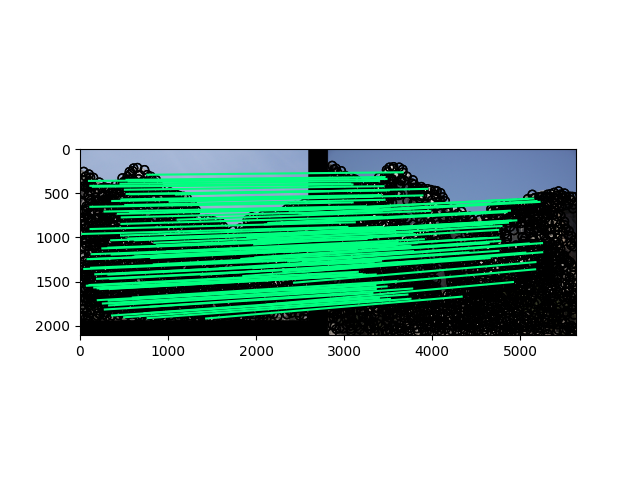
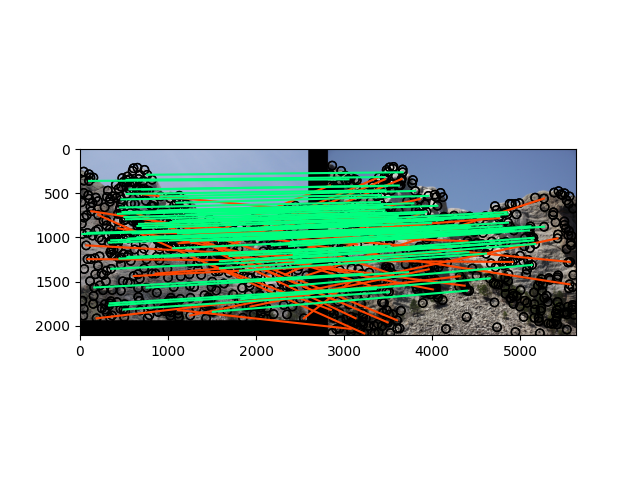
change descriptor type

Changed region(s): [[0.125, 0.3438, 0.9062, 0.7188]]

diff --git a/project2-localimagefeatures-cancan233/code/student.py b/project2-localimagefeatures-cancan233/code/student.py
@@ -81,7 +81,7 @@ def get_interest_points(image, feature_width):
     alpha = 0.04
     R = Ixx * Iyy - Ixy ** 2 - alpha * (Ixx + Iyy) ** 2
     R = R / np.linalg.norm(R)
-    threshold = np.percentile(R, [15.0])
+    threshold = np.percentile(R, [60.0])
     np.putmask(R, R < threshold, 0)
     interested_points = feature.peak_local_max(
         R,
@@ -92,15 +92,14 @@ def get_interest_points(image, feature_width):
     )
 
     # interested_points = anms(interested_points, R)
-    # print(interested_points.shape)
     if rescale:
         interested_points = interested_points / 2
     return interested_points[:, 1], interested_points[:, 0]
 
 
-def anms(points, harris_response, top=500):
+def anms(points, R, top=500):
     l, x, y = [], 0, 0
-    threshold = np.mean(harris_response)
+    threshold = np.mean(R)
     while x < len(points):
         minpoint = float("inf")
         xi, yi = points[x][0], points[x][1]
@@ -109,10 +108,9 @@ def anms(points, harris_response, top=500):
             if (
                 xi != xj
                 and yi != yj
-                and harris_response[points[x][0], points[x][1]] > threshold
-                and harris_response[points[y][0], points[y][1]] > threshold
-                and harris_response[points[x][0], points[x][1]]
-                < harris_response[points[y][0], points[y][1]] * 0.9
+                and R[points[x][0], points[x][1]] > threshold
+                and R[points[y][0], points[y][1]] > threshold
+                and R[points[x][0], points[x][1]] < R[points[y][0], points[y][1]] * 0.9
             ):
                 dist = math.sqrt((xj - xi) ** 2 + (yj - yi) ** 2)
                 if dist < minpoint:
@@ -219,9 +217,6 @@ def get_features(image, x, y, feature_width):
     bin_width = 2 * np.pi / num_bins
     bins = np.arange(-np.pi, np.pi, bin_width)
 
-    # num_mag_bins = 3
-    # mag_bins = np.array([0, 2, 4])
-
     # image = color.rgb2gray(image)
     filtered_image = filters.gaussian(image, sigma=1.0)
 
@@ -260,56 +255,72 @@ def get_features(image, x, y, feature_width):
                 axis=1,
             )
         ).reshape(-1, feature_width)
-        feature = np.zeros(int(feature_width * feature_width * num_bins / 16))
-        # feature = []
-        for subwindow_i in range(len(patch_window_magnitudes)):
-            inds = np.digitize(patch_window_orientations[subwindow_i], bins)
-            for inds_i in range(num_bins):
-                mask = np.array(inds == inds_i)
-                feature[subwindow_i * num_bins + inds_i] = np.sum(
-                    patch_window_magnitudes[subwindow_i].flatten()[mask]
-                )
 
-                # HOG descriptor
-                # gradient close to the center orientation contribute more to the bin value
-                # feature[subwindow_i * num_bins + inds_i] = np.dot(
-                #     patch_window_magnitudes[subwindow_i].flatten()[mask],
-                #     np.cos(
-                #         np.abs(
-                #             patch_window_orientations[subwindow_i].flatten()[mask]
-                #             - (bins[inds_i] + bin_width / 2)
-                #         )
-                #     ),
-                # )
+        # descriptor_type: "SIFT",  "HOG", "GLOH"
+        descriptor_type = "HOG"
 
-                # GLOH-like descriptor, still not finished.
-                # To use this descriptor, you will need to uncomment previous lines, which defines num_mag_bins, mag_bins and feature(as a empty list) and following line which transform feature back to np.array
+        if descriptor_type == "SIFT":
+            feature = np.zeros(int(feature_width * feature_width * num_bins / 16))
+            for subwindow_i in range(len(patch_window_magnitudes)):
+                inds = np.digitize(patch_window_orientations[subwindow_i], bins)
+                for inds_i in range(num_bins):
+                    mask = np.array(inds == inds_i)
+                    feature[subwindow_i * num_bins + inds_i] = np.sum(
+                        patch_window_magnitudes[subwindow_i].flatten()[mask]
+                    )
 
-                # sub_inds = np.digitize(
-                #     patch_window_magnitudes[subwindow_i][mask], mag_bins
-                # )
-                # for sub_inds_i in range(num_mag_bins):
-                #     sub_mask = np.array(sub_inds == sub_inds_i)
-                #     feature.append(
-                #         np.dot(
-                #             patch_window_magnitudes[subwindow_i].flatten()[mask][
-                #                 sub_mask
-                #             ],
-                #             np.cos(
-                #                 np.abs(
-                #                     patch_window_orientations[subwindow_i].flatten()[
-                #                         mask
-                #                     ][sub_mask]
-                #                     - (bins[inds_i] + bin_width / 2)
-                #                 )
-                #             ),
-                #         )
-                #     )
+        if descriptor_type == "HOG":
+            # HOG descriptor
+            # gradient close to the center orientation contribute more to the bin value
+            feature = np.zeros(int(feature_width * feature_width * num_bins / 16))
+            for subwindow_i in range(len(patch_window_magnitudes)):
+                inds = np.digitize(patch_window_orientations[subwindow_i], bins)
+                for inds_i in range(num_bins):
+                    mask = np.array(inds == inds_i)
+                    feature[subwindow_i * num_bins + inds_i] = np.dot(
+                        patch_window_magnitudes[subwindow_i].flatten()[mask],
+                        np.cos(
+                            np.abs(
+                                patch_window_orientations[subwindow_i].flatten()[mask]
+                                - (bins[inds_i] + bin_width / 2)
+                            )
+                        ),
+                    )
 
-        # feature = np.array(feature)
+        if descriptor_type == "GLOH":
+            # GLOH-like descriptor.
+            num_mag_bins = 3
+            mag_bins = np.array([0, 2, 4])
+            feature = []
+            for subwindow_i in range(len(patch_window_magnitudes)):
+                inds = np.digitize(patch_window_orientations[subwindow_i], bins)
+                for inds_i in range(num_bins):
+                    mask = np.array(inds == inds_i)
+                    sub_inds = np.digitize(
+                        patch_window_magnitudes[subwindow_i][mask], mag_bins
+                    )
+                    for sub_inds_i in range(num_mag_bins):
+                        sub_mask = np.array(sub_inds == sub_inds_i)
+                        feature.append(
+                            np.dot(
+                                patch_window_magnitudes[subwindow_i].flatten()[mask][
+                                    sub_mask
+                                ],
+                                np.cos(
+                                    np.abs(
+                                        patch_window_orientations[
+                                            subwindow_i
+                                        ].flatten()[mask][sub_mask]
+                                        - (bins[inds_i] + bin_width / 2)
+                                    )
+                                ),
+                            )
+                        )
+                        feature = np.array(feature)
+
         feature = feature ** 0.6
         feature_norm = feature / np.linalg.norm(feature)
-        threshold = np.percentile(feature_norm, [20.0])
+        threshold = np.percentile(feature_norm, [60.0])
         np.putmask(feature_norm, feature_norm < threshold, 0)
         feature_norm = feature_norm ** 0.7
         feature_norm_2 = feature_norm / np.linalg.norm(feature_norm)

diff --git a/project2-localimagefeatures-cancan233/code/main.py b/project2-localimagefeatures-cancan233/code/main.py
@@ -193,7 +193,7 @@ def main():
 
     print("Matches: " + str(matches.shape[0]))
 
-    num_pts_to_visualize = 100
+    num_pts_to_visualize = 0
 
     evaluate_correspondence(
         image1_color,
